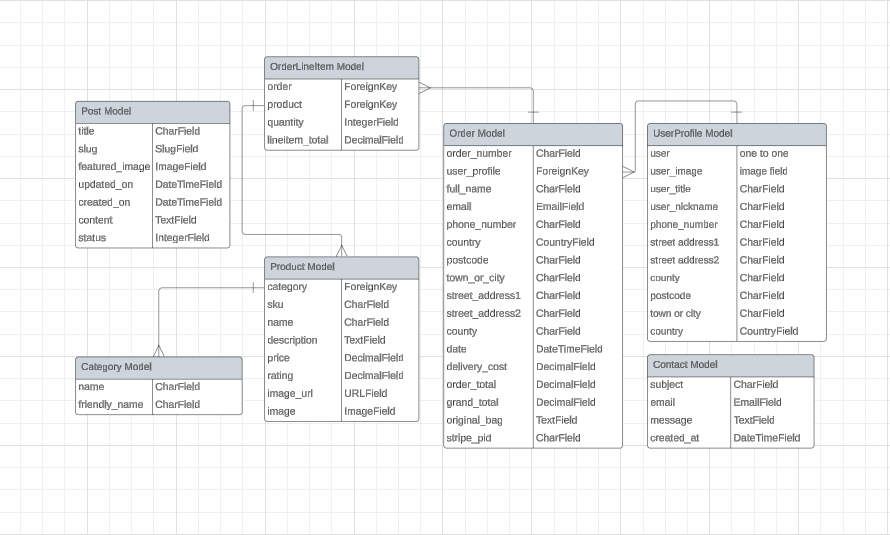
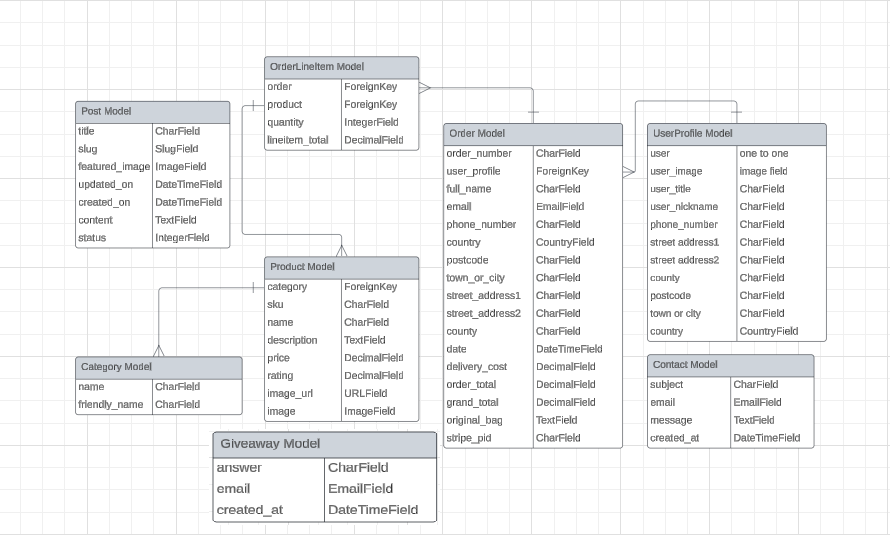
Updated readme with giveaway model

Changed region(s): [[0.2124, 0.8075, 0.5157, 0.9869]]

diff --git a/README.md b/README.md
@@ -125,6 +125,17 @@
 |country|countryfield|
 
 
+#### Contact Model
+
+
+| id | Field |
+|--|--|
+|subject|CharField|
+|email|EmailField|
+|message|TextField|
+|created_at|DateTimeField|
+
+
 #### Post Model
 
 
@@ -139,15 +150,13 @@
 |status|IntegerField|
 
 
-
-#### Contact Model
+#### Giveaway Model
 
 
 | id | Field |
 |--|--|
-|subject|CharField|
+|answer|CharField|
 |email|EmailField|
-|message|TextField|
 |created_at|DateTimeField|
 
 [Back to Top of page](#contents)
